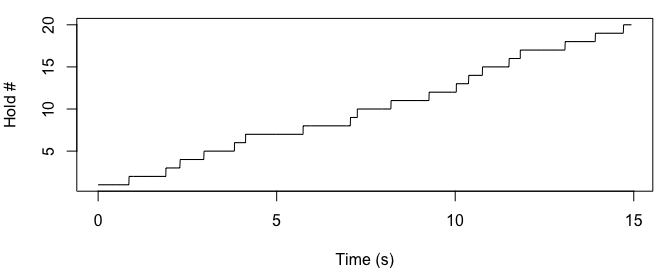
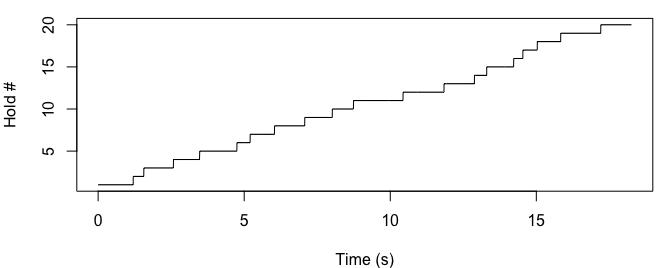
Adding additional physical constraint
Added a parameter `max_dist` that controls the maximum distance that can be traversed between holds. This prevents reasonable innovation rates from leading to a bunch of big gaps in the route.

diff --git a/README.md b/README.md
@@ -101,9 +101,9 @@ beta
 (init_time/n_holds)*seq_ratios
 ```
 
-    ##  [1] 0.8663235 1.0316852 0.3996837 0.6682919 0.8531268 0.3107566 1.6109695
-    ##  [8] 1.3270237 0.1902318 0.9461157 1.0656838 0.7622323 0.3475074 0.3846847
-    ## [15] 0.7474412 0.3104971 1.2578201 0.8464915 0.7891963 0.2259564
+    ##  [1] 1.2016715 0.3635775 1.0146782 0.8979425 1.2744094 0.4522616 0.8356682
+    ##  [8] 1.0342582 0.9435056 0.7262213 1.6958151 1.4004775 1.0410451 0.4203595
+    ## [15] 0.9260607 0.3129652 0.4928775 0.8009349 1.3722188 1.0508054
 
 This `sd_multiplier` value of 0.5 generates a distribution of times per
 hold that is similar to the example distribution in [Reveret et
@@ -128,26 +128,27 @@ controls the number of successive FALSE booleans that are allowed in the
 model. We will assume `adj_poss` = 2, because (to our knowledge) nobody
 has successfully skipped three or more holds in speed climbing.
 
-Among all possible boolean flips, we will weight their probability by
-the inverse of the Euclidean distance (in meters) between the adjacent
-holds, raised to the power of a parameter `constraint`. In other words,
-if skipping a hold means traversing a large distance, then that hold
-will be less likely to be skipped. `constraint` controls the strength of
-this physical constraint. The probability of skipping a hold will be a
-normalized version of the following:
-
-*P*(*s**k**i**p**p**i**n**g*) = (1/*d**i**s**t*)<sup>*c**o**n**s**t**r**a**i**n**t*</sup>
-
+Additionally, we will include a parameter `max_dist` that controls the
+maximum travel distance (Euclidean distance in meters) that a climber
+can travel after skipping a hold. The prior for this parameter will go
+from the minimum distance between holds that are one hold apart to the
+maximum distance between holds that are two (`adj_poss`) holds apart.
 The first hold can never be skipped, because every climber is required
-to start on it The Euclidean distance for the last hold will be the
-distance between the second-to-last hold and the buzzer. `constraint` =
-0 equalizes the probabilities, whereas `constraint` = 2 leads to a 10x
-difference in the probability of innovating holds with the closest
-vs. furthest adjacent holds. Below is a density plot showing the (yet to
-be normalized) probabilities of skipping each hold under `constraint` =
-{0.5, 1, 2} (blue, black, and red, respectively).
+to start on it. The Euclidean distance for the last hold will be the
+distance between the second-to-last (or third-to-last) hold and the
+buzzer.
 
-![](README_files/figure-gfm/unnamed-chunk-6-1.png)<!-- -->
+Below are the distributions of distances between holds that are one and
+two holds apart …
+
+![](README_files/figure-gfm/unnamed-chunk-6-1.png)<!-- -->![](README_files/figure-gfm/unnamed-chunk-6-2.png)<!-- -->
+
+Among the available holds within `max_dist`, the probability of
+innovating a hold will be weighted by the inverse of the distance
+between the adjacent holds, raised to the power of a parameter
+`constraint`. In other words, if skipping a hold means traversing a
+larger distance, then that hold will be less likely to be skipped.
+`constraint` controls the strength of this physical constraint.
 
 When a boolean flip occurs (i.e. when a hold is added to or dropped from
 the beta) the `seq_ratios` of the adjacent holds are resampled (based on
@@ -284,13 +285,13 @@ n <- unlist(lapply(1:length(years), function(x){nrow(data[which(data$year == yea
 
 Now let’s run the model with an initial population size of 53, a 0.2
 probability of learning from the top 20 climbers, a 0.2 probability of
-innovation, and `constraint` = 1. The `improve_rate_m` of athletic
-improvement will be 2, the `improve_rate_sd` will be 0.2, and the `min`
-improvement possible will be 0.4. `bw` and `ylim`, control the density
-bandwidth and y-axis limit in the plot, respectively. `sum_stats`
-controls whether summary statistics are calculated from the output,
-`plot` controls whether the output is plotted, and `bw` and `ylim`
-control the density bandwidth and y-axis limit of the plot,
+innovation, `max_dist` = 2, and `constraint` = 1. The `improve_rate_m`
+of athletic improvement will be 2, the `improve_rate_sd` will be 0.2,
+and the `min` improvement possible will be 0.4. `bw` and `ylim`, control
+the density bandwidth and y-axis limit in the plot, respectively.
+`sum_stats` controls whether summary statistics are calculated from the
+output, `plot` controls whether the output is plotted, and `bw` and
+`ylim` control the density bandwidth and y-axis limit of the plot,
 respectively.
 
 ``` r
@@ -300,7 +301,7 @@ start <- Sys.time()
 #run model
 output <- SpeedClimbingABM(n = n, years = years, pop_data = pop_data, grid = grid,
                            n_holds = 20, beta_true_prob = 1, learn_prob = 0.2, n_top = 20,
-                           innov_prob = 0.2, constraint = 1, improve_rate_m = 2, improve_rate_sd = 0.2, improve_min = 0.4,
+                           innov_prob = 0.2, max_dist = 2, constraint = 1, improve_rate_m = 2, improve_rate_sd = 0.2, improve_min = 0.4,
                            sum_stats = TRUE, plot = TRUE, bw = 0.6, ylim = 0.4)
 ```
 
@@ -311,7 +312,7 @@ output <- SpeedClimbingABM(n = n, years = years, pop_data = pop_data, grid = gri
 Sys.time() - start
 ```
 
-    ## Time difference of 0.3552511 secs
+    ## Time difference of 0.3574409 secs
 
 In the above plot, each distribution (from right to left) is the
 distribution of `current_records` for climbers in the population in each
@@ -324,32 +325,32 @@ output
 
     ##              0%       10%       20%       30%       40%       50%       60%
     ##  [1,] 15.400000 18.256000 20.408000 21.188000 24.432000 28.640000 29.712000
-    ##  [2,]  8.080000 10.951000 12.549569 13.851195 16.418657 19.633757 25.160000
-    ##  [3,]  5.724069  7.273228  8.621227 10.249998 11.240000 13.219168 15.046140
-    ##  [4,]  5.291820  7.296886  8.276121  9.045000  9.690000 11.390000 12.410000
-    ##  [5,]  4.828431  6.569069  7.022928  7.325000  7.820000  8.475000  8.690000
-    ##  [6,]  4.578932  6.090390  6.467761  7.050147  7.520000  7.947431  8.610000
-    ##  [7,]  5.027576  5.968948  6.440297  7.089000  7.424000  7.805504  8.532677
-    ##  [8,]  4.995140  5.826290  6.381385  6.932617  7.312000  7.741000  8.554000
-    ##  [9,]  4.810681  5.820714  6.235133  6.646000  7.102216  7.593189  7.904107
-    ## [10,]  4.702173  5.803929  6.478000  6.806599  7.230000  7.654218  8.006178
-    ## [11,]  4.631086  5.767669  6.256013  6.605912  6.949718  7.442200  8.181147
-    ## [12,]  4.620815  5.920000  6.402000  6.730837  7.285829  7.660000  8.181159
-    ## [13,]  4.614992  5.482803  6.050427  6.594244  6.958668  7.364674  7.873232
+    ##  [2,]  8.080000 11.212208 13.006475 14.087226 15.603768 20.951223 24.921408
+    ##  [3,]  5.004672  9.922364 10.685502 11.247696 11.614398 13.203548 15.065357
+    ##  [4,]  4.565625  7.884936  8.773138  9.237135  9.880000 11.505000 12.690000
+    ##  [5,]  4.197945  7.030000  7.335178  7.835000  8.229885  8.590000  9.030000
+    ##  [6,]  4.011660  6.343744  7.120000  7.272186  7.641014  8.171768  8.610000
+    ##  [7,]  5.401533  6.077252  6.475737  6.980000  7.234000  7.788274  8.534687
+    ##  [8,]  4.790783  5.780095  6.372643  6.968657  7.561200  7.758000  8.562361
+    ##  [9,]  4.609093  5.713902  6.349991  6.646000  6.915274  7.410000  8.092000
+    ## [10,]  4.413766  5.771984  6.356000  6.659423  7.104361  7.640000  8.064000
+    ## [11,]  4.407839  5.648615  6.146090  6.568001  7.032888  7.510000  8.124978
+    ## [12,]  4.404906  5.619296  6.460000  6.817600  7.318000  7.711564  8.176606
+    ## [13,]  4.380829  5.519397  5.958194  6.570256  7.049352  7.525000  7.974382
     ##             70%       80%      90%     100%
     ##  [1,] 32.472000 39.548000 43.25400 62.06000
-    ##  [2,] 28.862000 30.598000 33.13300 48.08000
-    ##  [3,] 17.504887 23.894206 26.11259 33.23000
-    ##  [4,] 16.979656 22.471647 24.23000 31.90000
-    ##  [5,] 10.952123 14.900000 18.10706 21.56951
-    ##  [6,] 10.550316 11.824156 16.20297 20.45811
-    ##  [7,] 10.764312 13.546000 17.26600 24.79000
-    ##  [8,]  8.974000  9.778831 11.86200 19.92865
-    ##  [9,]  8.324000  9.421237 11.26200 18.15000
-    ## [10,]  8.604000 10.150000 12.05100 23.37000
-    ## [11,]  8.689236  9.770639 11.00600 16.59000
-    ## [12,]  8.772000  9.300400 10.44400 19.83000
-    ## [13,]  8.343955  8.880738 10.04744 14.02597
+    ##  [2,] 28.557000 30.598000 33.13300 48.08000
+    ##  [3,] 17.331187 21.293987 27.09493 33.23000
+    ##  [4,] 16.642057 22.180000 24.34453 31.90000
+    ##  [5,] 10.754062 12.844932 18.39930 24.74039
+    ##  [6,] 10.134444 11.530000 14.71543 23.37186
+    ##  [7,] 11.686735 13.546000 17.35353 24.79000
+    ##  [8,]  8.974000  9.786211 11.86200 22.74628
+    ##  [9,]  8.427145  9.434648 10.64612 18.15000
+    ## [10,]  8.558119 10.001742 11.95917 23.37000
+    ## [11,]  8.635860  9.745827 10.87693 16.59000
+    ## [12,]  8.852000  9.496408 10.52140 19.83000
+    ## [13,]  8.468800  9.178912 10.28040 13.30600
 
 Let’s do another run of the model, but let’s add interaction effects so
 that climbers with slower times are more likely to learn
@@ -365,7 +366,7 @@ start <- Sys.time()
 #run model
 output <- SpeedClimbingABM(n = n, years = years, pop_data = pop_data, grid = grid,
                            n_holds = 20, beta_true_prob = 1, learn_prob = 0.2, n_top = 20,
-                           innov_prob = 0.2, constraint = 1, improve_rate_m = 2, improve_rate_sd = 0.2, improve_min = 0.4,
+                           innov_prob = 0.2, max_dist = 2, constraint = 1, improve_rate_m = 2, improve_rate_sd = 0.2, improve_min = 0.4,
                            learn_x_times = 1, innov_x_times = -1, learn_x_pop = 1, innov_x_pop = 1,
                            sum_stats = TRUE, plot = TRUE, bw = 0.6, ylim = 0.4)
 ```
@@ -377,7 +378,7 @@ output <- SpeedClimbingABM(n = n, years = years, pop_data = pop_data, grid = gri
 Sys.time() - start
 ```
 
-    ## Time difference of 0.4214411 secs
+    ## Time difference of 0.4235671 secs
 
 ``` r
 output
@@ -385,29 +386,29 @@ output
 
     ##              0%       10%       20%       30%       40%       50%       60%
     ##  [1,] 15.400000 18.256000 20.408000 21.188000 24.432000 28.640000 29.712000
-    ##  [2,]  8.080000 11.204119 12.480000 14.173174 16.848000 21.267532 25.378000
-    ##  [3,]  5.672369  8.982705  9.717226 10.746943 11.838823 14.009765 16.283206
-    ##  [4,]  5.494154  7.790000  8.505359  9.130000 10.328315 11.505000 12.816501
-    ##  [5,]  4.472480  6.772648  7.230000  7.719526  8.166333  8.590000  9.317773
-    ##  [6,]  4.294320  5.997802  6.811376  7.258000  7.520000  8.312918  8.829000
-    ##  [7,]  4.791437  6.226965  6.689193  7.098220  7.296322  7.800000  8.780000
-    ##  [8,]  4.368213  6.015159  6.622849  7.007596  7.462000  7.741000  8.473214
-    ##  [9,]  4.319913  5.934286  6.265114  6.646000  7.092659  7.465291  8.078863
-    ## [10,]  4.693393  5.904901  6.403796  6.671904  7.224000  7.605000  7.844000
-    ## [11,]  4.227967  5.693922  6.019117  6.467862  6.762540  7.510000  8.124955
-    ## [12,]  3.742245  5.084202  5.920000  6.488492  6.890000  7.504000  7.966000
-    ## [13,]  3.675545  4.513036  5.346854  5.784922  6.331800  6.837637  7.352410
+    ##  [2,]  8.080000 11.070635 12.884395 14.486272 16.128637 20.618114 24.783051
+    ##  [3,]  5.524309  8.498236  9.564546 11.008008 11.880000 13.036565 15.098352
+    ##  [4,]  4.745187  7.503882  8.649010  9.216619 10.260000 11.346142 12.410000
+    ##  [5,]  3.959606  6.877707  7.290000  7.745000  8.263424  8.590000  9.030000
+    ##  [6,]  3.830641  5.344099  6.270000  7.188000  7.535021  7.946475  8.610000
+    ##  [7,]  4.016897  5.931408  6.498952  6.980000  7.407757  7.800000  8.541838
+    ##  [8,]  3.824089  5.003719  6.195525  6.928800  7.426266  7.741000  8.292817
+    ##  [9,]  3.674447  4.481168  5.406298  6.216059  6.658000  7.380000  8.049877
+    ## [10,]  3.321633  4.587125  5.834472  6.640419  7.230000  7.645000  8.028000
+    ## [11,]  3.482513  4.506797  5.290784  5.946015  6.529663  7.185000  7.738000
+    ## [12,]  2.713401  4.583468  5.416347  6.314000  6.816800  7.435000  7.838000
+    ## [13,]  2.620836  3.710568  4.464717  4.961161  5.377142  5.916462  6.604074
     ##             70%       80%      90%     100%
     ##  [1,] 32.472000 39.548000 43.25400 62.06000
-    ##  [2,] 28.557000 30.598000 33.13300 48.08000
-    ##  [3,] 17.860299 22.135771 25.52600 33.23000
-    ##  [4,] 15.897763 21.570000 23.69500 31.90000
-    ##  [5,] 11.300717 14.545354 19.42523 22.69265
-    ##  [6,] 10.242858 12.247586 16.74478 19.24696
-    ##  [7,] 10.772664 13.546000 17.30500 24.79000
-    ##  [8,]  8.996000  9.734000 11.86200 19.38308
-    ##  [9,]  8.418375  9.370154 11.38325 18.15000
-    ## [10,]  8.500907 10.018000 12.54600 23.37000
-    ## [11,]  8.822877  9.572000 11.00600 16.59000
-    ## [12,]  8.530000  9.206000 10.32436 19.83000
-    ## [13,]  7.911299  8.438150  9.66340 13.30600
+    ##  [2,] 28.862000 30.598000 33.13300 56.35012
+    ##  [3,] 19.921562 21.905738 25.52600 46.32093
+    ##  [4,] 17.445147 21.570000 23.75463 31.90000
+    ##  [5,] 10.404615 13.125095 17.62395 20.69978
+    ##  [6,]  9.115920 10.403819 12.34282 17.20412
+    ##  [7,]  9.399614 13.546000 16.79027 24.79000
+    ##  [8,]  8.850100  9.403000 11.79280 17.89650
+    ##  [9,]  8.327514  8.712000 10.11400 18.15000
+    ## [10,]  8.604000  9.648102 11.82700 23.37000
+    ## [11,]  8.439186  9.342000 10.10109 16.59000
+    ## [12,]  8.496400  9.180403 10.25600 19.83000
+    ## [13,]  7.381000  8.109200  9.33540 13.30600
